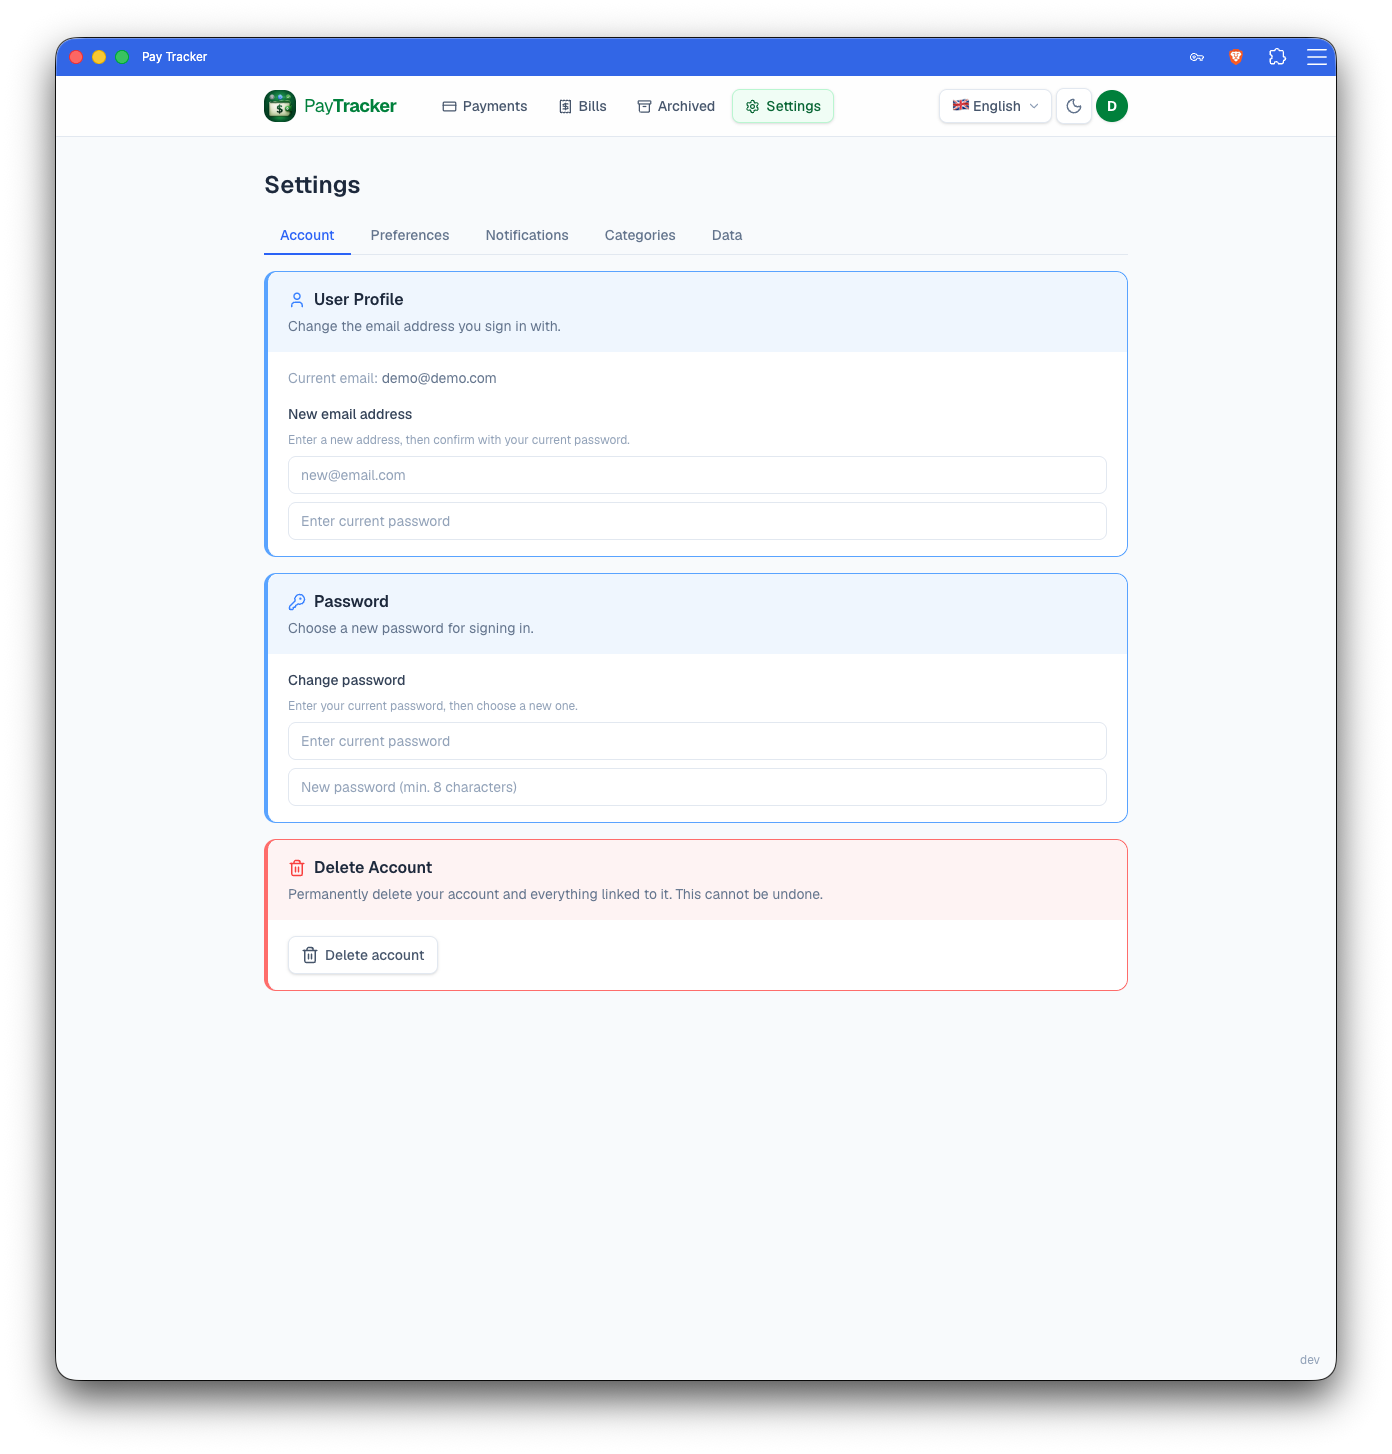
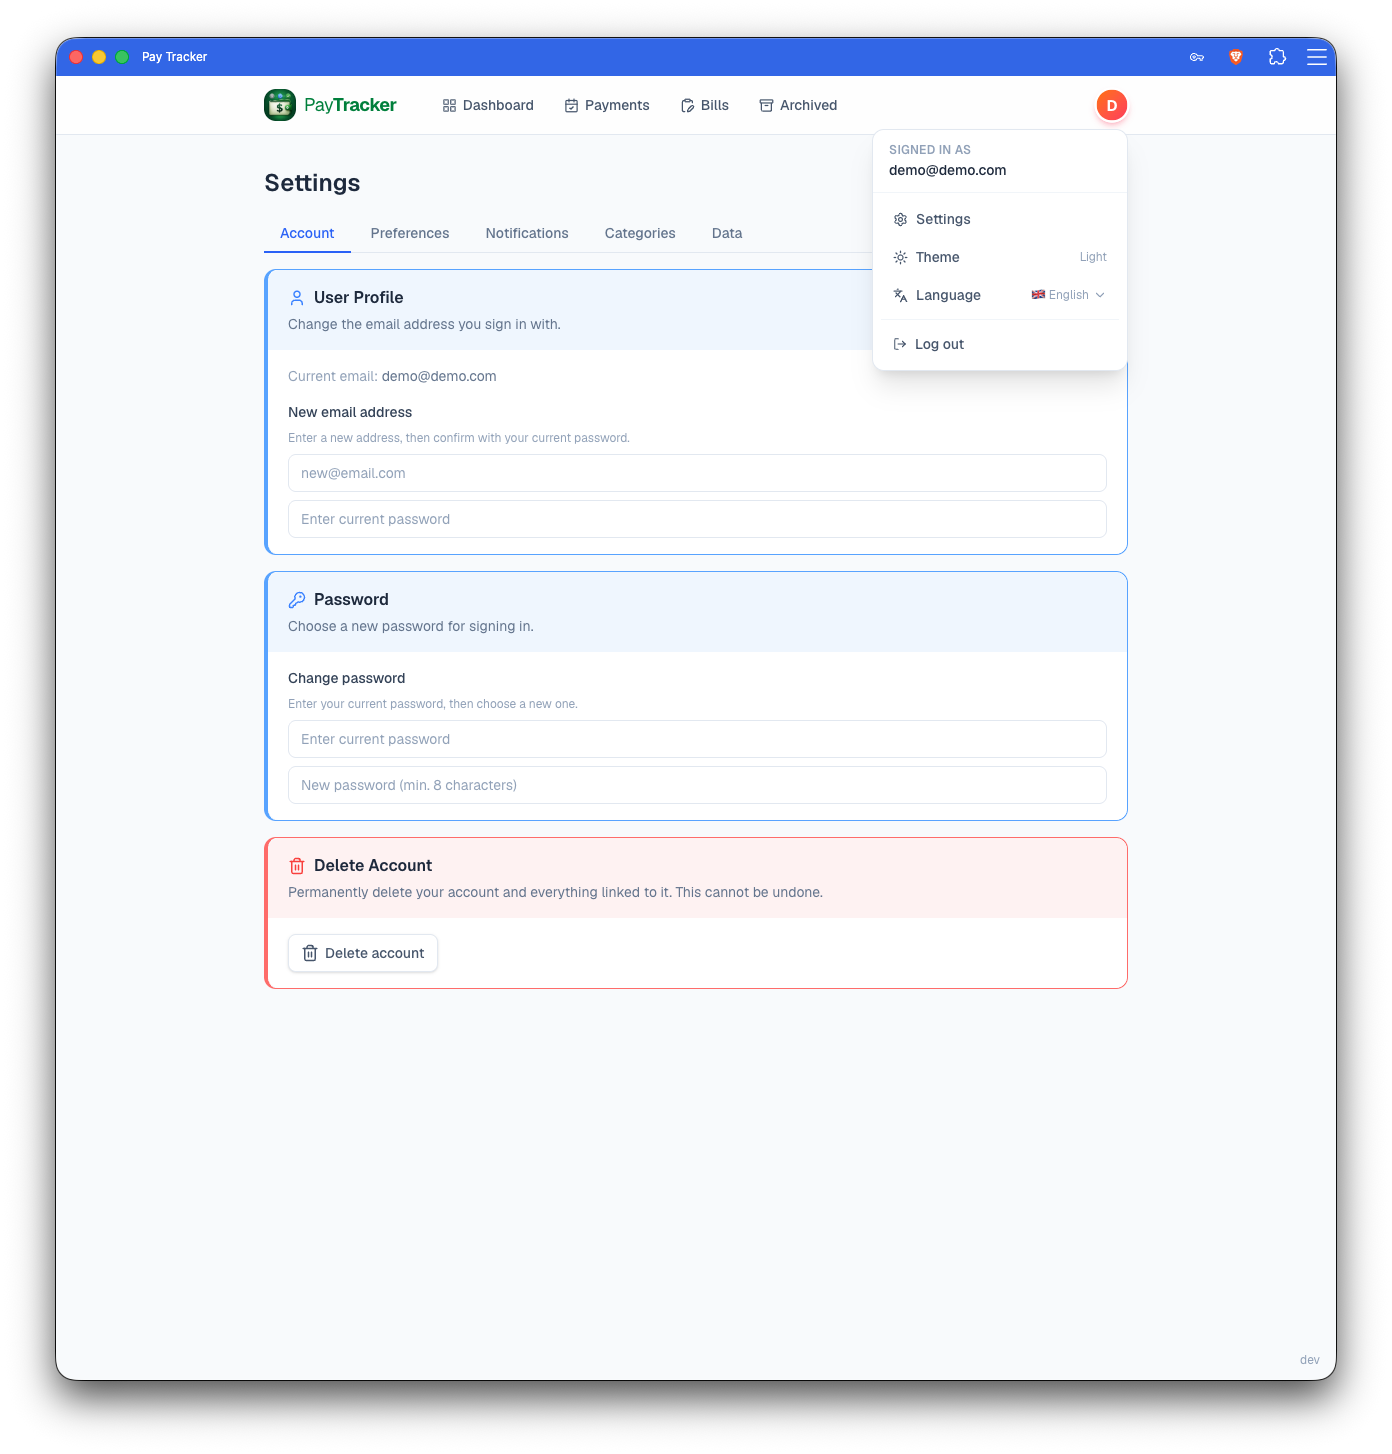
docs(readme): refresh README

diff --git a/README.md b/README.md
@@ -1,29 +1,39 @@
-# Pay Tracker
+# <img src="frontend/public/pt-logo.png" width="32" alt="Pay Tracker logo" valign="middle"> Pay Tracker
 
 A self-hosted household bill tracking PWA. Define your recurring bills once, then each month's payment instances are generated automatically. Mark bills paid from any device — phone, tablet, or desktop.
 
 No third-party data sharing. No subscription. Runs locally with Docker Compose or in the cloud. Each user's data is fully isolated.
 
 
-## Preview
+<p align="center">
+  <a href="demo/public/dashboard.png">
+    <img src="demo/public/dashboard.png" width="180" alt="Dashboard">
+  </a>
+  <a href="demo/public/payments_light.png">
+    <img src="demo/public/payments_light.png" width="180" alt="Payments light">
+  </a>
+  <a href="demo/public/payments_dark.png">
+    <img src="demo/public/payments_dark.png" width="180" alt="Payments dark">
+  </a>
+  <a href="demo/public/bills.png">
+    <img src="demo/public/bills.png" width="180" alt="Bills">
+  </a>
+  <a href="demo/public/settings.png">
+    <img src="demo/public/settings.png" width="180" alt="Settings">
+  </a>
+</p>
 
-| Payments (light) | Payments (dark) |
-|---|---|
-| <img src="demo/public/payments_light.png" width="350"> | <img src="demo/public/payments_dark.png" width="350"> |
 
-| Bills | Settings |
-|---|---|
-| <img src="demo/public/bills.png" width="350"> | <img src="demo/public/settings.png" width="350"> |
+## 📋 What it does
 
-
-## What it does
-
-- **Bill templates** — define a bill once: name, category, amount, currency, recurrence frequency, due day of month. Pay Tracker generates payment instances automatically each period.
+- **Bill templates** — define a bill once: name, category, amount, currency, due day of month, and how often it repeats: monthly (every 1–12 months), annual (every 1–5 years) or one-off. Optionally set an end month to stop a recurring bill after its last installment. Pay Tracker generates payment instances automatically each period.
+- **Dashboard** — month summary, a category donut and a 12-month trend at a glance.
 - **Archive bills** — archive a bill you no longer need to hide it from the active list; its payment history stays intact and stays accessible from the Archive page. Restore an archived bill any time to bring it back to the active list and resume generating payments.
 - **Category grouping** — bills and payments are grouped under category headers. Every account starts with 9 defaults (Housing, Utilities, Insurance, Subscriptions, Entertainment, Transport, Healthcare, Education, Other); add your own, rename or recolor any of them, or archive ones you no longer use from Settings. Category is required on every bill. Archiving a category hides it from the "new bill" picker but doesn't touch bills already using it — they keep working and stay filterable, just flagged as archived.
-- **Payment tracking** — view upcoming, overdue, and paid bills for any month, grouped by category. Mark as paid with an optional amount override and note. Revert if you made a mistake.
+- **Payment tracking** — view upcoming, overdue, and paid bills for any month, grouped by category. Mark as paid with an optional amount override and note. Edit the amount, date and note of any payment afterwards, or revert if you made a mistake.
 - **Email reminders** — optional, off by default for new accounts. Configure SMTP credentials and a send time (30-minute precision) and the app emails you before or after each bill's due date.
 - **Monthly summary email** — optional. On the last day of each month, receive a full summary of what was paid (amount due vs. paid, date) and what was missed, with totals. Toggle it in Settings → Email Notifications. A "Send monthly summary now" button lets you request the current month's snapshot on demand.
+- **Browser notifications** — optional. Get a desktop/mobile notification when a bill is due today (Settings → Browser Notifications).
 - **Email sent indicator** — each payment row shows an `@` icon: gray if no reminder has been sent, amber if one was sent. Click it to see the exact timestamp.
 - **Telegram reminders** — optional. Per-user bot token and chat ID, own schedule and monthly summary, independent of email. See `context/foundation/telegram-setup.md`.
 - **Export & backup** — download payment history as `.xlsx` (one sheet per month) or a JSON backup where you choose what to include (bills & payments, custom categories, email setup, Telegram, languages, default currency; select/deselect all). Restore applies whatever the file contains.
@@ -33,7 +43,7 @@ No third-party data sharing. No subscription. Runs locally with Docker Compose o
 - **Installable as PWA** — works offline-first on mobile and desktop.
 
 
-## Quick start without cloning
+## 🚀 Quick start without cloning
 
 Pull the published images from GitHub Container Registry and run the app with just two files — no repo clone required.
 
@@ -63,7 +73,7 @@ docker compose -f docker-compose.prod.yml --profile demo up -d
 Pin a specific released version instead of the latest one by setting `PAY_TRACKER_VERSION` (e.g. `PAY_TRACKER_VERSION=1.1.0 docker compose -f docker-compose.prod.yml up -d`).
 
 
-## Getting started
+## 🏁 Getting started
 
 The steps below build the images from source — use this if you're developing Pay Tracker or want to run unreleased changes. If you just want to run the app, see [Quick start without cloning](#quick-start-without-cloning) above.
 
@@ -90,7 +100,7 @@ Open http://localhost:3010 and register. Each account is isolated — register s
 
 ### 4. Add your first bill
 
-Go to **Bills → New Bill**. Fill in the name, category, amount, frequency, and due day of month. Save it — Pay Tracker will generate this month's payment instance automatically.
+Go to **Bills → New Bill**. Fill in the name, category, amount, frequency (monthly/annual + interval), and due day of month. Save it — Pay Tracker will generate this month's payment instance automatically.
 
 ### 5. Track payments
 
@@ -98,19 +108,21 @@ Go to **Payments**. Use the month selector to browse any period. Click **Mark as
 
 ### 6. Set up email reminders (optional)
 
-Add SMTP credentials to `.env` (see the `# Reminders` section in `.env.example`), then restart (mail is delivered through [Apprise](https://github.com/caronc/apprise), which will also carry other channels later). Go to **Settings → Email Notifications** to configure when reminders are sent and which timing windows to use (2 days before, 1 day before, on the day, 1 day after).
+Add SMTP credentials to `.env` (see the `# Reminders` section in `.env.example`), then restart (mail is delivered through [Apprise](https://github.com/caronc/apprise), which will also carry other channels later). Open the avatar menu (top right) → **Settings → Email Notifications** to configure when reminders are sent and which timing windows to use (2 days before, 1 day before, on the day, 1 day after).
 
 The settings page also shows the current server time (UTC) so you can set the send time relative to your timezone.
 
 
-## Environment variables
+## ⚙ Environment variables
 
 | Variable | Required | Description |
 | --- | --- | --- |
 | `ENVIRONMENT` | no (default: `development`) | Set to `production` for any real deployment — enables the `Secure` cookie flag, rejects a weak/default `JWT_SECRET`, and disables `/docs`, `/redoc`, `/openapi.json` |
 | `JWT_SECRET` | yes | JWT signing secret — use a long random string |
+| `ACCESS_TOKEN_EXPIRE_MINUTES` | no | Login session lifetime in minutes (default: 60) |
 | `DATABASE_URL` | yes | PostgreSQL connection string |
 | `NEXT_PUBLIC_API_URL` | yes | Backend URL as seen by the browser. **Baked in at frontend build time**, not read at container startup — only takes effect when building the frontend yourself (`docker compose up --build`, see [Getting started](#getting-started)). The pre-built images used in [Quick start without cloning](#quick-start-without-cloning) always ship with this set to `http://localhost:8010`, since it's baked in once at release time before any deployment's real domain is known |
+| `NEXT_PUBLIC_SESSION_HEARTBEAT_SECONDS` | no | Seconds between session-expiry checks on an idle open tab (default: 180). Build-time, like `NEXT_PUBLIC_API_URL` |
 | `SMTP_HOST` | no | SMTP server for email reminders |
 | `SMTP_PORT` | no | SMTP port (default: 587) |
 | `SMTP_USER` | no | SMTP login |
@@ -123,7 +135,7 @@ The settings page also shows the current server time (UTC) so you can set the se
 Copy `.env.example` to `.env`. Never commit `.env`.
 
 
-## Stack
+## 🧱 Stack
 
 - **Frontend:** Next.js 16 (App Router), React 19, TypeScript, Tailwind CSS, next-intl
 - **Backend:** FastAPI, Python 3.13, SQLAlchemy 2.0, Alembic, Pydantic v2
@@ -131,7 +143,7 @@ Copy `.env.example` to `.env`. Never commit `.env`.
 - **Runtime:** Docker Compose
 
 
-## Development commands
+## 🛠 Development commands
 
 ```bash
 # Start everything
@@ -159,7 +171,7 @@ docker compose exec backend uv run alembic revision --autogenerate -m "describe 
 > **Migration note:** Always read the generated migration file before applying — autogenerate can miss new columns. For renames, write `add_column` + `UPDATE` + `drop_column` manually instead of relying on `alter_column(new_column_name=...)`.
 
 
-## Installing as a PWA
+## 📲 Installing as a PWA
 
 - **Chrome / Brave (desktop):** install icon (⊕) in the address bar, or browser menu → Install Pay Tracker
 - **Android:** browser menu (⋮) → Add to Home screen
@@ -168,7 +180,7 @@ docker compose exec backend uv run alembic revision --autogenerate -m "describe 
 Requires HTTPS in production. Localhost works as an exception in most browsers.
 
 
-## Export & backup
+## 💾 Export & backup
 
 - **XLSX** — Payments page → Export Excel. One sheet per month, all columns.
 - **JSON backup** — Settings → Data → Download Backup. Tick the sections to include (bills & payments, custom categories, email notification setup, Telegram, language settings, default currency) or use select/deselect all. Scoped to your account. The Telegram option writes the bot token in plaintext, so keep such files private.

diff --git a/CHANGELOG.md b/CHANGELOG.md
@@ -1,0 +1,84 @@
+# Changelog
+
+Notable changes to Pay Tracker, release by release.
+
+## v1.1.0
+
+### Features
+
+- Per-user editable categories: create, rename, recolor, and archive categories, with backup/restore support
+- Telegram reminders per user; email reminders now sent via Apprise. All notifications are off by default for new users
+- Selective backup: choose which sections to export, and restore them partially
+- Delete account, with full data cascade
+- Default currency preference (plus CNY support)
+- Interface languages: Spanish, Italian, French and Chinese added; choose which languages appear in the switcher
+- Settings page regrouped into tabs (Account, Preferences, Notifications, Categories, Data), with the active tab kept in the URL
+- Filters on Payments, Bills, and Archive views (multi-select category and status), plus category & status sorting
+- Collapsible calendar view on Payments, marking days that have bills due
+- "Mark as Paid" now includes a payment date field, and reverting a payment asks for confirmation
+- Archived bills can be restored
+- Archived categories are now flagged in filters and group headers instead of silently disappearing
+- Show/hide toggle on password fields
+- Recurring bills can now have an end month, so installments and fixed-term contracts stop generating payments and reminders after the last one
+- Custom repeat interval: bills can repeat every 1–12 months or every 1–5 years (e.g. every 4 months, every 2 years). Existing "Every 2 months" and "Quarterly" bills were converted automatically with the same schedule, and older backups still import
+
+### Security
+
+- Hardened cookies/sessions: secure cookies, CSRF protection, logout token revocation
+- Access tokens now require iss/aud claims
+- CSP and other hardening headers sent from the proxy middleware
+- Swagger/ReDoc/OpenAPI docs disabled outside development
+- Patched high-severity vulnerabilities in next and pyasn1
+
+### Fixes
+
+- One-off bills now correctly generate a payment instance
+- Unpaid payments now suggest the current template price
+- xlsx export localized and backfilled to a full year of instances
+- Fixed login/dashboard hydration mismatch
+- Payment note moved out of the popup onto its own line
+- Enlarged the calendar day tile count badge and thickened the today marker for readability
+- Frontend build now correctly wires in NEXT_PUBLIC_API_URL
+- Various Docker build fixes
+- Consistent button, checkbox, and dropdown styling; action buttons aligned to ghost/outline style
+- Localized auth error messages
+
+## v1.0.2 — 2026-07-20
+
+### Features
+
+- Restore safety net: data is automatically snapshotted before a restore, with self-serve undo
+- Restore preview: compare current data with the backup before confirming a restore
+
+### Fixes
+
+- Session expiry is now detected reliably: automatic logout and redirect to login
+- Minimum password length of 8 characters enforced on registration
+- Frontend arm64 image built on a native runner instead of QEMU
+- CI: added mypy type-checking and dependency vulnerability audits
+
+## v1.0.1 — 2026-07-01
+
+### Fixes
+
+- Release images are now built for both amd64 and arm64
+
+## v1.0.0 — 2026-07-01
+
+First release.
+
+### Features
+
+- Bill templates (one-off, recurring, annual) with automatic, idempotent payment generation; archive instead of delete
+- Payments page: mark as paid (optional amount), revert payment, delete a single instance or all future entries, year navigation up to one year ahead
+- Bills and payments grouped by category
+- Currencies: PLN, EUR, USD and custom
+- Interface languages: English, Polish, German, with per-user preference
+- Registration, login, session management, forgot/reset password via email token
+- Per-user data scoping
+- Excel (xlsx) export, full JSON backup and restore
+- PWA: installable, with browser notifications for due bills
+- Email reminders and month-end summary email, with per-user toggles; missed reminders caught up on startup
+- Settings page and green branding with new logo
+- Docker Compose deployment with PostgreSQL 17 as a separate service and demo data
+- Multi-arch images published to GHCR from CI, with Playwright E2E suite and 80% backend test coverage
